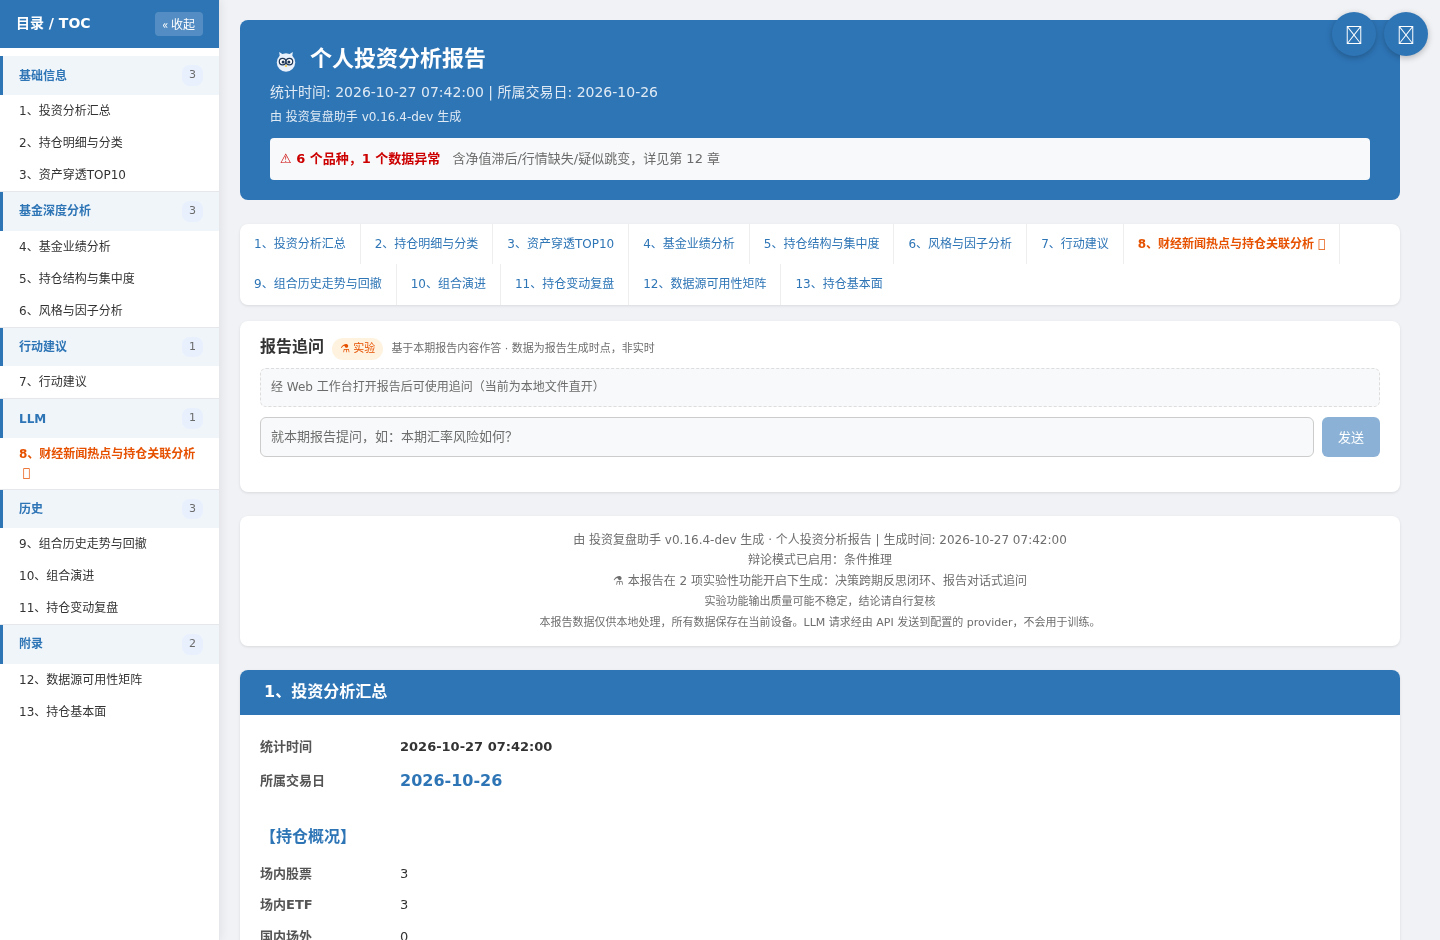
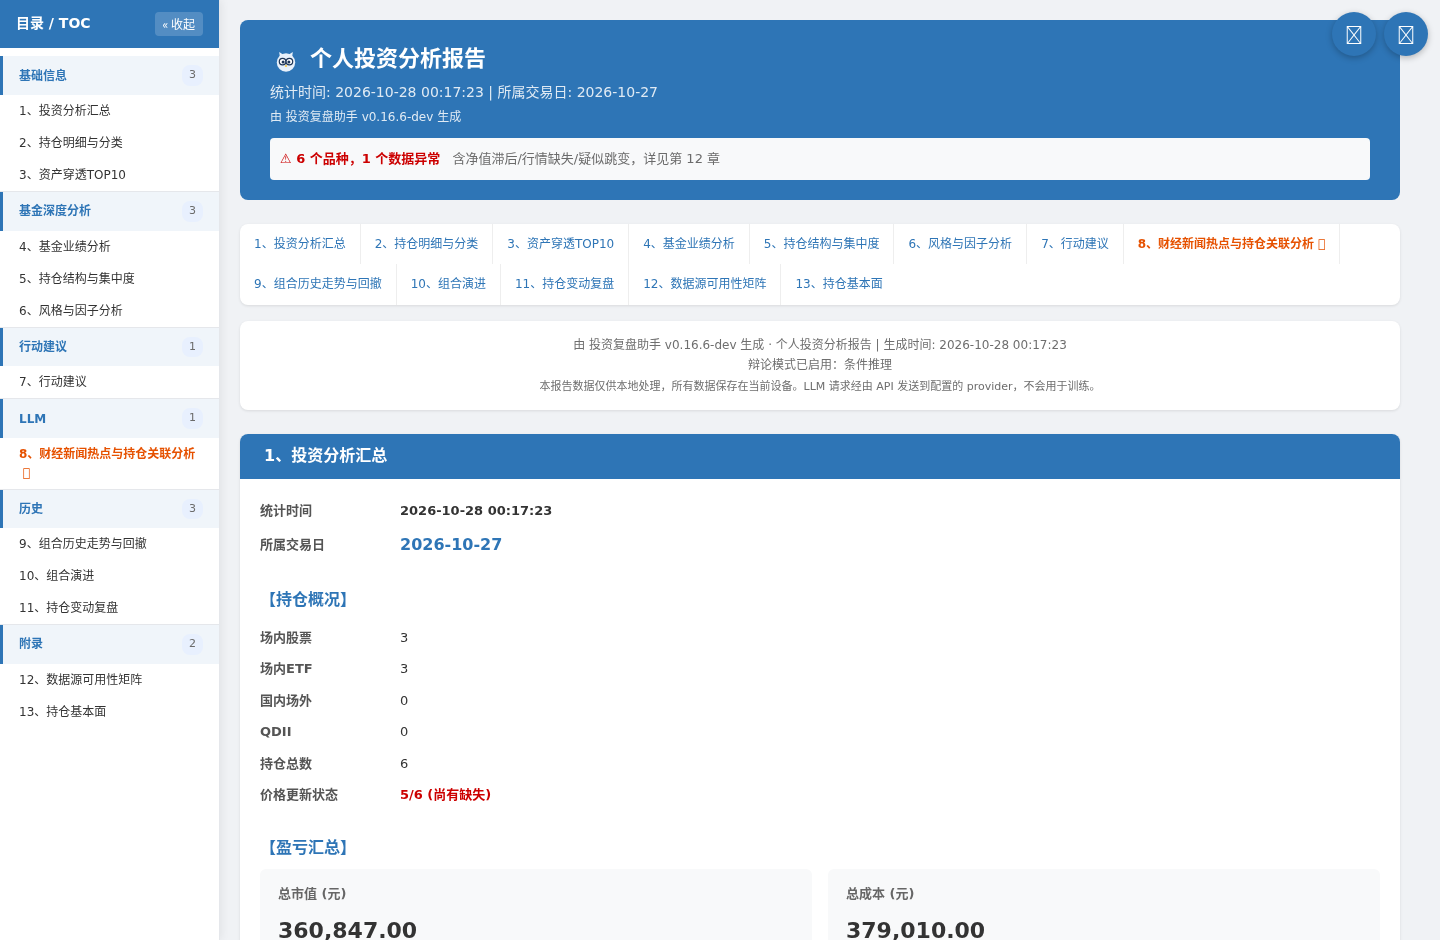
docs(screenshots): 重出 7 张配图（cli/web/tui/报告），均取演示工作区
- 全部用隔离演示工作区（两账户 6 只公开品种 + 占位凭据），真实持仓零接触：
  demo → report（Excel+HTML）→ tui / cli / web 三渠道 + 报告首屏/汇总/穿透三图
- 工具改进（截图链路）：
  · cdp_shot/web_shot/make-screenshots：省略 --scroll-y 时保留 URL 锚点定位并强制
    重新对齐一次（原先恒 scrollTo(0) 会覆盖 hash 滚动，导致章节图三张同图）
  · tui_frame：取帧前把 perf 台账 / 健康历史读路径指向演示工作区（页头「上次报告 /
    数据源失败」不再反映本机真实状态），取帧后还原
- scripts-reference 同步：web 首页是 `/`（五区走 hash）、锚点用法示例、TUI 帧状态隔离
- README 7 处图片链接核对：文件名未变、全部命中（无需改链接）

diff --git a/scripts/make-screenshots.py b/scripts/make-screenshots.py
@@ -10,7 +10,8 @@
                                     把一帧 TUI 首页渲染成 PNG（取帧走生产渲染函数）
   cli <out.png> [--text F]            把一次 CLI 生成输出渲染成 PNG（伪终端采集，含进度与耗时排行）
   web <url> <out.png> [--scroll-y N] [--width W] [--height H] [--replace from=>to] [--chrome P]
-                                    无头 Chromium CDP 截图（滚动后截视口，固定侧栏不丢）
+                                    无头 Chromium CDP 截图（滚动后截视口，固定侧栏不丢；
+                                    省略 --scroll-y 时保留 URL 锚点定位，适合报告章节截图）
 
 典型用法（README 配图刷新）：
 
@@ -111,7 +112,12 @@ def build_parser() -> argparse.ArgumentParser:
     web = subparsers.add_parser("web", help="无头 Chromium CDP 截图")
     web.add_argument("url", help="目标页面 URL")
     web.add_argument("output", type=Path, help="输出 PNG 路径")
-    web.add_argument("--scroll-y", type=int, default=0, help="滚动到该纵向位置再截图（默认 0）")
+    web.add_argument(
+        "--scroll-y",
+        type=int,
+        default=None,
+        help="滚动到该纵向位置再截图（省略时保留 URL 锚点定位，适合 #sec-xxx 章节图）",
+    )
     web.add_argument("--width", type=int, default=1440, help="视口宽（默认 1440）")
     web.add_argument("--height", type=int, default=940, help="视口高（默认 940）")
     web.add_argument("--replace", default="", help="截图前替换文本，写法 `原文=>替换`（用于抹除临时数据）")

diff --git a/scripts/_screenshots/tui_frame.py b/scripts/_screenshots/tui_frame.py
@@ -206,6 +206,19 @@ def capture_frame(config_path: Path) -> str:
         set_config_path_override(str(config_path))
         _clear_config_cache()
 
+        # 页头状态行会显示「上次报告 / 新鲜度 / 数据源失败」——这些读的是本机真实运行状态。
+        # 演示帧必须只用演示工作区的状态：把 perf/健康历史路径指向演示目录（演示目录里没有
+        # 这些文件 → 显示占位），事后再还原模块属性，不触碰真实 data/state。
+        demo_root = config_path.parents[2]
+        state_dir = demo_root / "data" / "state"
+        state_dir.mkdir(parents=True, exist_ok=True)
+        from src.python.core import perf as _perf
+
+        _orig_perf = _perf._PERF_HISTORY_FILE
+        _orig_health = _perf._HEALTH_CHECK_FILE
+        _perf._PERF_HISTORY_FILE = str(state_dir / "perf_history.jsonl")
+        _perf._HEALTH_CHECK_FILE = str(state_dir / "datasource_health.jsonl")
+
         from src.python.tui import tui_menu
 
         tui_menu.refresh_config()
@@ -221,6 +234,11 @@ def capture_frame(config_path: Path) -> str:
         return buffer.getvalue()
     finally:
         sys.stdout = saved_stdout
+        try:  # 还原真实状态路径（Demo 帧不得改变本机读取来源）
+            _perf._PERF_HISTORY_FILE = _orig_perf
+            _perf._HEALTH_CHECK_FILE = _orig_health
+        except (NameError, UnboundLocalError):
+            pass
 
 
 def main(argv: list[str] | None = None) -> int:

diff --git a/scripts/_screenshots/web_shot.py b/scripts/_screenshots/web_shot.py
@@ -54,7 +54,7 @@ def build_command(
     url: str,
     output: Path,
     *,
-    scroll_y: int = 0,
+    scroll_y: int | None = None,
     width: int = 1440,
     height: int = 940,
     replace: str = "",
@@ -66,7 +66,7 @@ def build_command(
         str(CDP_SCRIPT),
         url,
         str(output),
-        str(scroll_y),
+        "-" if scroll_y is None else str(scroll_y),
         str(width),
         str(height),
         replace,
@@ -77,7 +77,7 @@ def run(
     url: str,
     output: Path,
     *,
-    scroll_y: int = 0,
+    scroll_y: int | None = None,
     width: int = 1440,
     height: int = 940,
     replace: str = "",

diff --git a/docs/managements/folders.md b/docs/managements/folders.md
@@ -12,14 +12,14 @@
 | 主程序代码 | Python | 402 | 107,052 | `src/` 下所有 `.py`（不含测试：`src/__init__.py` 顶层包标记 + `src/python/` 下 15 个 `__init__.py`，含 `web/` 服务层；近期新增 `providers/tiantian_purchase.py` 天天基金申购状态总表 provider + `fetcher/fund_purchase.py` 申购状态取数编排（双链路/准入/会话复用） + `core/jsonl_store.py` JSONL 原子原语 + `core/signal_ledger.py` 确定性信号账本 + `report/signal_record.py` 信号登记适配器 + `core/num_utils.py` 数值归一原语 + `core/doctor.py` 系统自检 + `core/cassette.py` 请求回放引擎 + `core/datasource_credential.py` 数据源凭据声明 + `fetcher/source_adapter.py` 适配契约 + `fetcher/quote_adapters.py` 行情域适配器 + `llm/module_fingerprint.py` 模块指纹唯一事实来源 + `report/_experimental_seams.py` 实验挂载点 + `report/holdings_freshness.py` 持仓报告期时效判定 + `report/experimental_notice.py` 实验功能清单语句单源 + `core/trading_calendar.py` 交易日历原语（时间距离一律以交易日计） + `providers/datasink.py` 全文本财报 provider（密钥/限速/配额） + `providers/hithink.py` 同花顺金融数据服务 provider（A 股行情/财务/基金/情绪面；凭据/qps 限速/信封错误码） + `fetcher/financial_report.py` 财报取数编排 + `fetcher/report_adapters.py` 财报域适配器 + `report/financial_report_digest.py` 财报摘要章节装配 + `providers/akshare_financial.py` 结构化财务指标主源 + `fetcher/financial_indicator_adapters.py` 财务指标域适配器 + `core/code_symbols.py::to_fmp_symbol` 共享符号映射 + `providers/utils.py::run_with_timeout` 共享取数超时原语 + `analysis/financial_indicator_extract.py` 财务指标全文解析（压平正文锚点提取，备用支路） + `fetcher/financial_indicator.py` 财务指标多期取数编排 + `analysis/financial_indicator.py` 财务指标派生（质量档/趋势/当前 PE·PB） + `report/financial_indicator.py` 财务指标章装配 + `report/holdings_detail_sheet.py` 持仓明细与分类 Excel 页签 + `report/position_structure_sheet.py` 持仓结构与集中度 Excel 页签 + `report/fundamental_snapshot_sheet.py` 持仓基本面 Excel 页签（三者均为章节合并写入器） + `llm/compliance.py` 合规声明集中注入（幂等叠加，单一漏斗覆盖全模块）） |
 | HTML 报告模板 | HTML | 23 | 5,195 | `src/static/tmpl/report_template.html` + `whatif_template.html`（调仓 What-if 独立 HTML 页）+ `partials/`（章节级/区块级 partial，主模板按 TOC 六组经 Jinja include 拆入，清单见目录树 `partials/` 节点） |
 | 架构图示 | SVG | 4 | 396 | `src/static/` README 架构图（architecture 三渠道→引擎→双报告、llm-chain Provider 链式分发、capabilities 九大功能域总览、owl-mascot 吉祥物猫头鹰「守望」）+ 截图 7 张 PNG（报告实景 `report-overview`/`report-toc`/`report-charts` + 界面实景 `tui-menu`/`web-workbench`/`web-config`/`cli-report`，不计入本行） |
-| 辅助脚本 | Python | 134 | 26,482 | `scripts/`（启动脚本 + CLI 命令行包装、测试驱动、工具检查、任务编号检查、性能测试、LLM 幻觉率评测与因子目录评测、测试覆盖计数、代码/文档历史痕迹与结构性冗余检查、视觉资产（社交预览图/架构图体检）、语义命名索引校验、Claude Code hook 安装/校验、Web 冒烟脚本、push2 连通性诊断、SVG 架构图检查） |
-| 源代码合计 | — | 563 | 139,125 | 主程序 + 模板 + 脚本 + SVG |
+| 辅助脚本 | Python | 134 | 26,506 | `scripts/`（启动脚本 + CLI 命令行包装、测试驱动、工具检查、任务编号检查、性能测试、LLM 幻觉率评测与因子目录评测、测试覆盖计数、代码/文档历史痕迹与结构性冗余检查、视觉资产（社交预览图/架构图体检）、语义命名索引校验、Claude Code hook 安装/校验、Web 冒烟脚本、push2 连通性诊断、SVG 架构图检查） |
+| 源代码合计 | — | 563 | 139,149 | 主程序 + 模板 + 脚本 + SVG |
 | 测试代码 | Python | 666 | 181,292 | `src/test/` 所有 `.py` 文件（含近期 ruff format 全仓重排） |
 | 测试用例 | — | — | 12,496 个 | `pytest --collect-only` 统计（`scripts/test-collect-coverage.py` 实时收集快照，不含 opt-in live 套件） |
 | 用户文档 | Markdown | 15 | 6,743 | 含 README.md；行数为 README + manuals 之和 |
 | ├ manuals/ | 用户手册分册 | 14 | 6,525 | 配置/faq/快速上手/TUI/CLI/Web 三种模式指南等 |
-| 项目文档 | Markdown | 200 | 69,716 | 含 CLAUDE.md；md 口径为 CLAUDE.md + `managements/` + `plan/` + 版本归档之和（分项见下方三行），py/txt 不计行 |
-| ├ managements/ | 管理文档 | 13 | 13,650 | 变更日志/目录树/测试计划/技术设计/开发者指南等 |
+| 项目文档 | Markdown | 200 | 69,725 | 含 CLAUDE.md；md 口径为 CLAUDE.md + `managements/` + `plan/` + 版本归档之和（分项见下方三行），py/txt 不计行 |
+| ├ managements/ | 管理文档 | 13 | 13,659 | 变更日志/目录树/测试计划/技术设计/开发者指南等 |
 | ├ archive/ | 版本归档 | 183 | 55,470 | 各版本 changelog/plan/review-findings 与设计文档归档（含 Vibe-Trading/gs-quant/TradingAgents 借鉴批候选研究、基金申购限购三份设计与 LLM 成本调节/自检/源指定设计） |
 | ├ plan/ | 中间设计文件 | 3 | ~503 | 在办设计文档（扁平存放）：Jev 新闻关联判定（对照评测 + 类型化通道设计）+ 决策跨期反思闭环设计 + 跨模块导入面重命名分析 |
 | └ tmp/ | 临时文件 | — | — | 调试产物、迁移暂存（git 忽略，不计入统计） |

diff --git a/docs/managements/scripts-reference.md b/docs/managements/scripts-reference.md
@@ -541,13 +541,20 @@ README / 手册配图的可复现来源。五个子命令（demo / report / tui 
 # ④ CLI 输出截图（伪终端采集：进度、耗时排行、产物路径；日志时间戳与绝对路径已抹平）
 .venv/bin/python scripts/make-screenshots.py cli src/static/cli-report.png
 
-# ⑤ Web 页面截图（导航 → 可选文本替换 → 滚动 → 截视口；固定侧栏不丢）
-.venv/bin/python scripts/make-screenshots.py web http://127.0.0.1:8000/workbench \
-    docs/tmp/screenshots/demo/web-workbench.png --scroll-y 0 --width 1440 --height 940 \
+# ⑤ Web 页面截图（导航 → 可选文本替换 → 定位 → 截视口；固定侧栏不丢）
+#    工作台首页在 `/`（五区用 hash 深链：#generate / #config / #whatif …）
+.venv/bin/python scripts/make-screenshots.py web http://127.0.0.1:8000/ \
+    docs/tmp/screenshots/demo/web-workbench.png --width 1440 --height 940 \
     --replace '临时文本=>演示文本'
+
+#   报告章节图用锚点定位：省略 --scroll-y 即保留 URL 锚点（并强制滚动一次，
+#   避免图表加载改变布局后首次 hash 滚动落空）；给 --scroll-y N 则按像素滚动
+.venv/bin/python scripts/make-screenshots.py web \
+    "http://127.0.0.1:8000/api/reports/个人投资分析报告.html#sec-summary" \
+    src/static/report-toc.png
 ```
 
-**运行状态护栏**：`report` 子命令会跑一次真实报告生成，而该流程会写 `data/state/`（perf 台账 / 数据源健康历史 / 实验与熔断状态）与 `data/calibration/`（去重锚点）。为兑现「真实 data/ 零接触」，脚本在跑前快照这两个目录、跑后原样还原（含删除运行期新增文件），演示数据不会进入真实统计与阈值校准。
+**运行状态护栏**：`report` / `cli` 会跑一次真实报告生成，而该流程会写 `data/state/`（perf 台账 / 数据源健康历史 / 实验与熔断状态）与 `data/calibration/`（去重锚点）。为兑现「真实 data/ 零接触」，脚本在跑前快照这两个目录、跑后原样还原（含删除运行期新增文件），演示数据不会进入真实统计与阈值校准。
 
 **演示工作区**（`demo_workspace.py`）：截图要展示 `data/holdings`、`reports` 这类相对路径，
 直接引用真实配置会把本机绝对路径印上屏。工作区的 `data/config/config.json` 用绝对路径（相对路径会被解析到项目根），上屏的相对路径
@@ -555,7 +562,9 @@ README / 手册配图的可复现来源。五个子命令（demo / report / tui 
 整数份额成本，凭据 `sk-demo-not-a-real-key` 让首页状态行显示「LLM 已配置」而非首次使用告警。
 
 **TUI 帧**（`tui_frame.py`）：取帧直接调用生产渲染函数（`print_header` + `show_config` +
-`render_menu`），不经过真实 TTY——文本与配色和终端同源，且不含光标控制序列；渲染端解析生产
+`render_menu`），不经过真实 TTY——文本与配色和终端同源，且不含光标控制序列；取帧前把
+perf 台账 / 数据源健康历史的**读路径指向演示工作区**（页头状态行的「上次报告 / 数据源失败」
+因此不反映本机真实运行状态），取帧后还原模块属性；渲染端解析生产
 代码用到的 SGR 子集（30-37 / 90-97 / 1 / 2 / 0）。超宽行按终端语义折成多行，**续行重新打开
 配色**（否则第二行掉回默认前景色）；演示目录与仓库根的绝对路径前缀整体抹掉。宽字符按终端
 显示列计（`text_layout.display_width`，与生产同源）。
